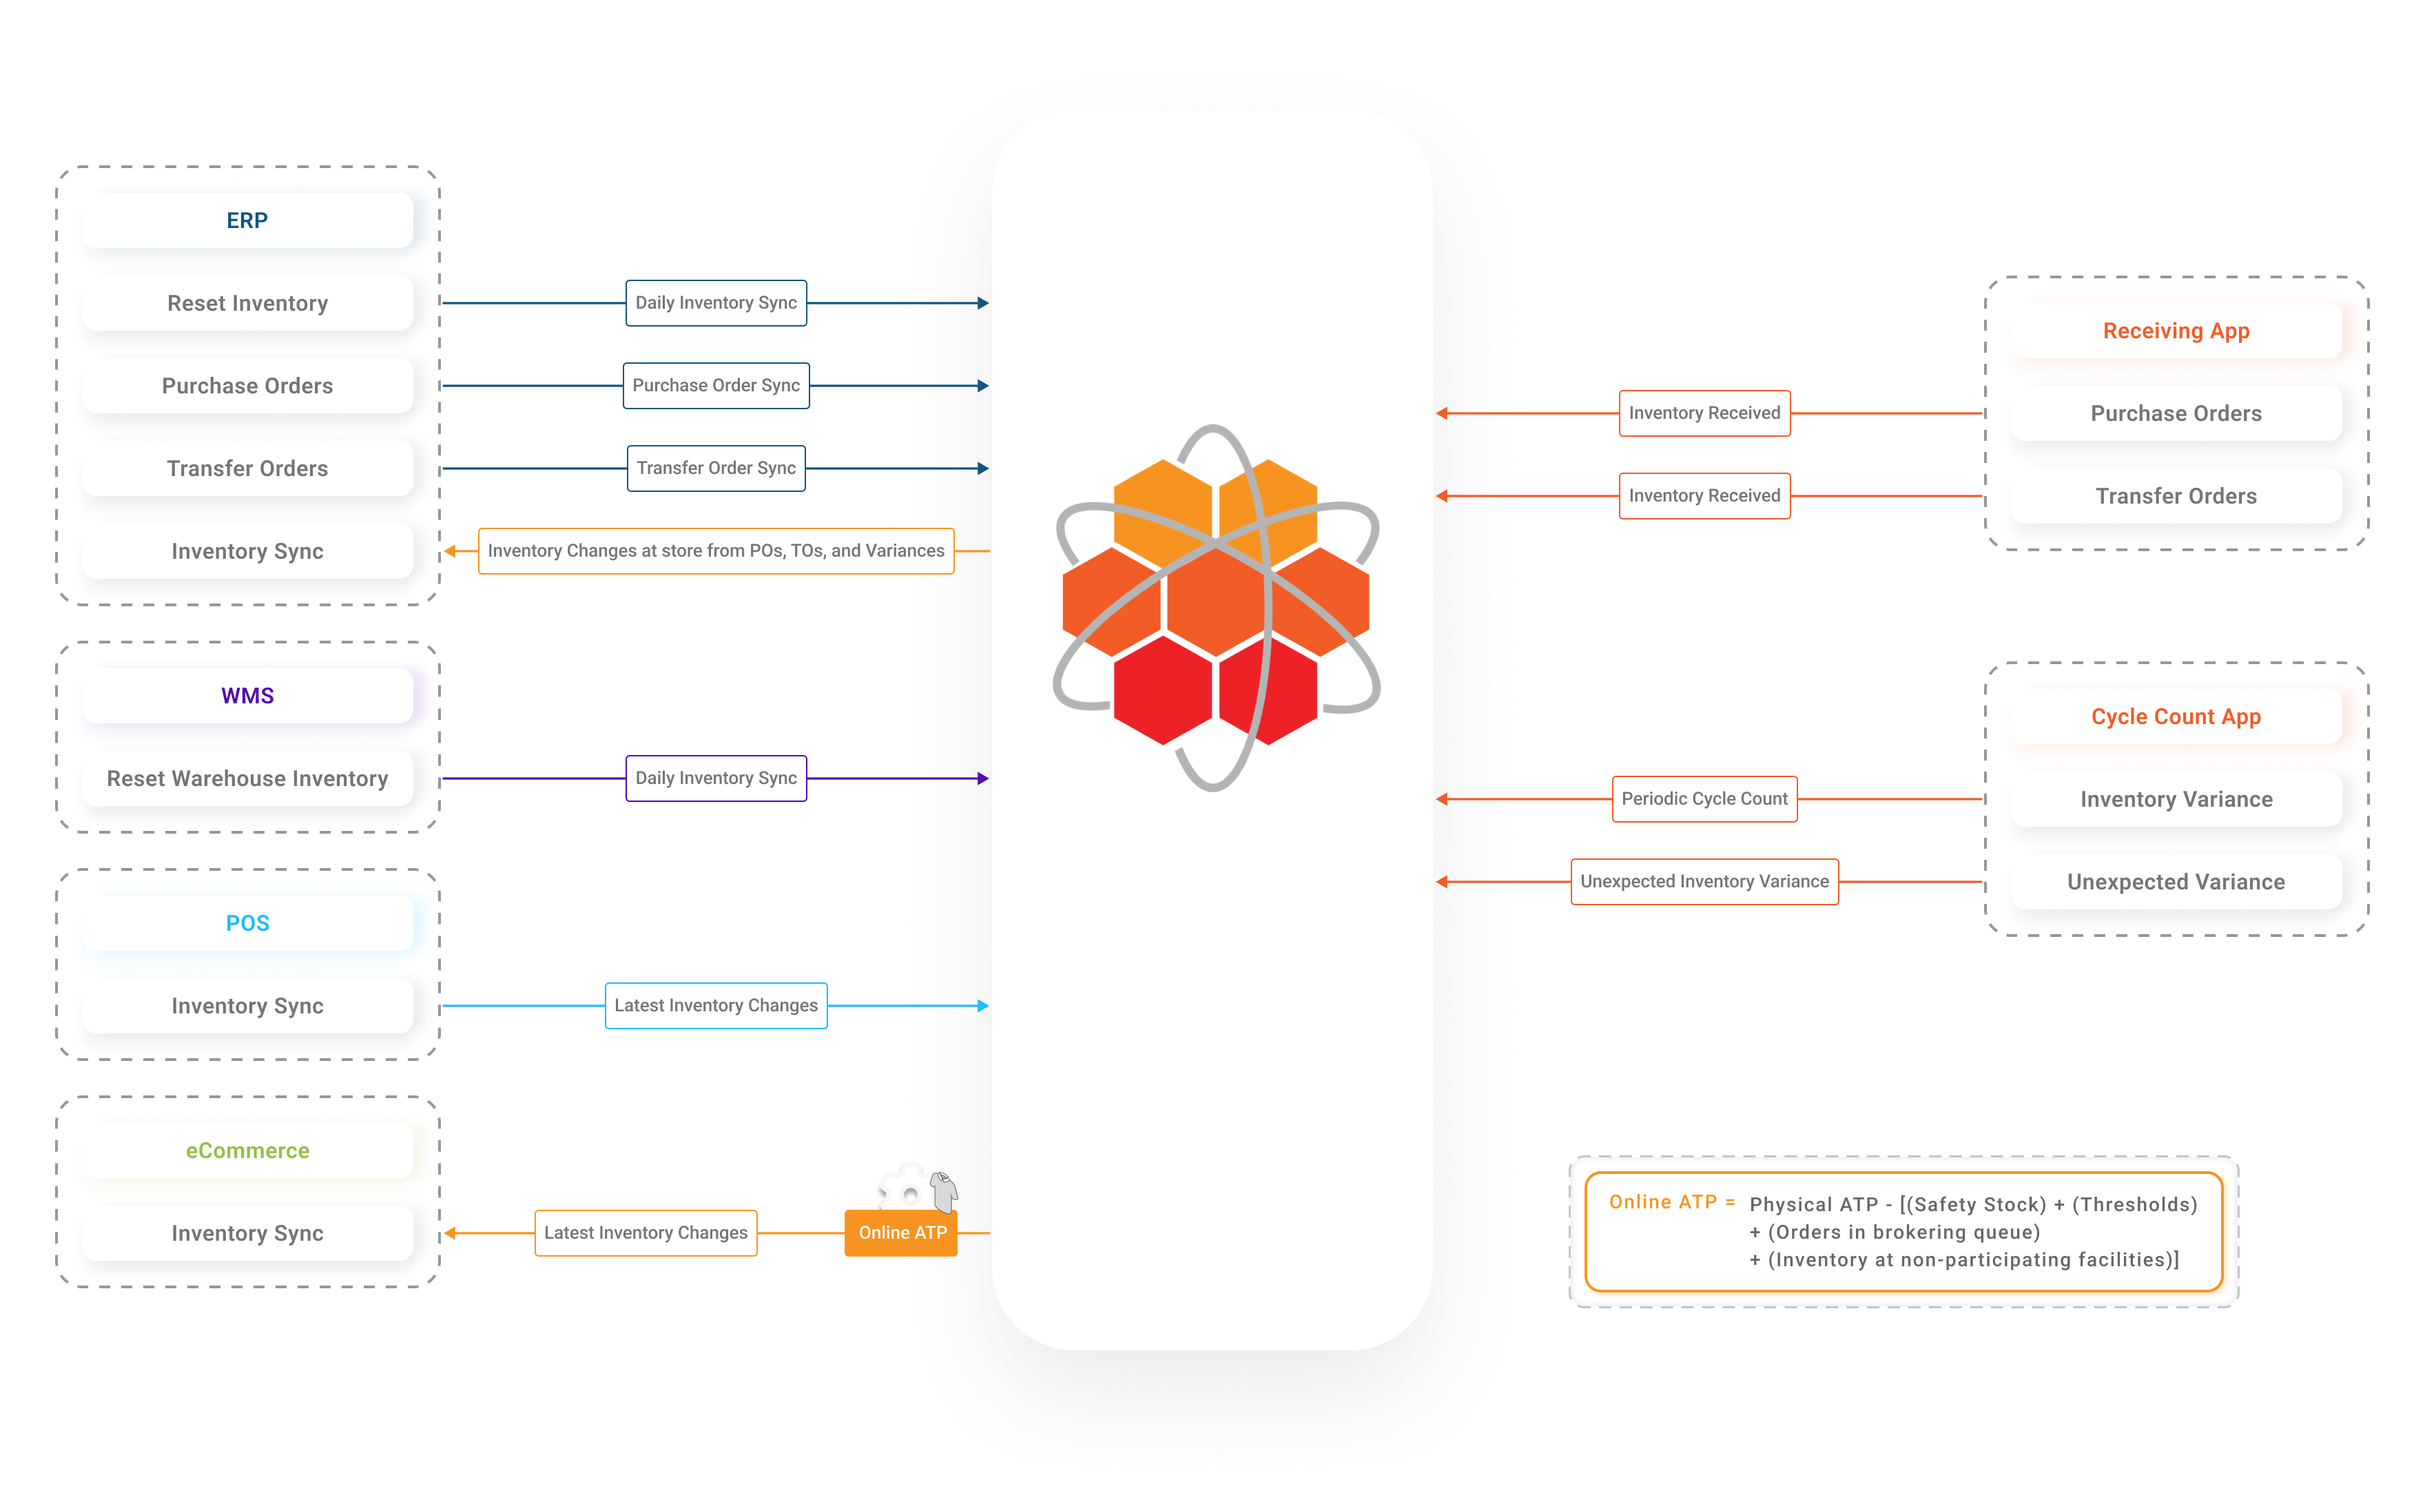
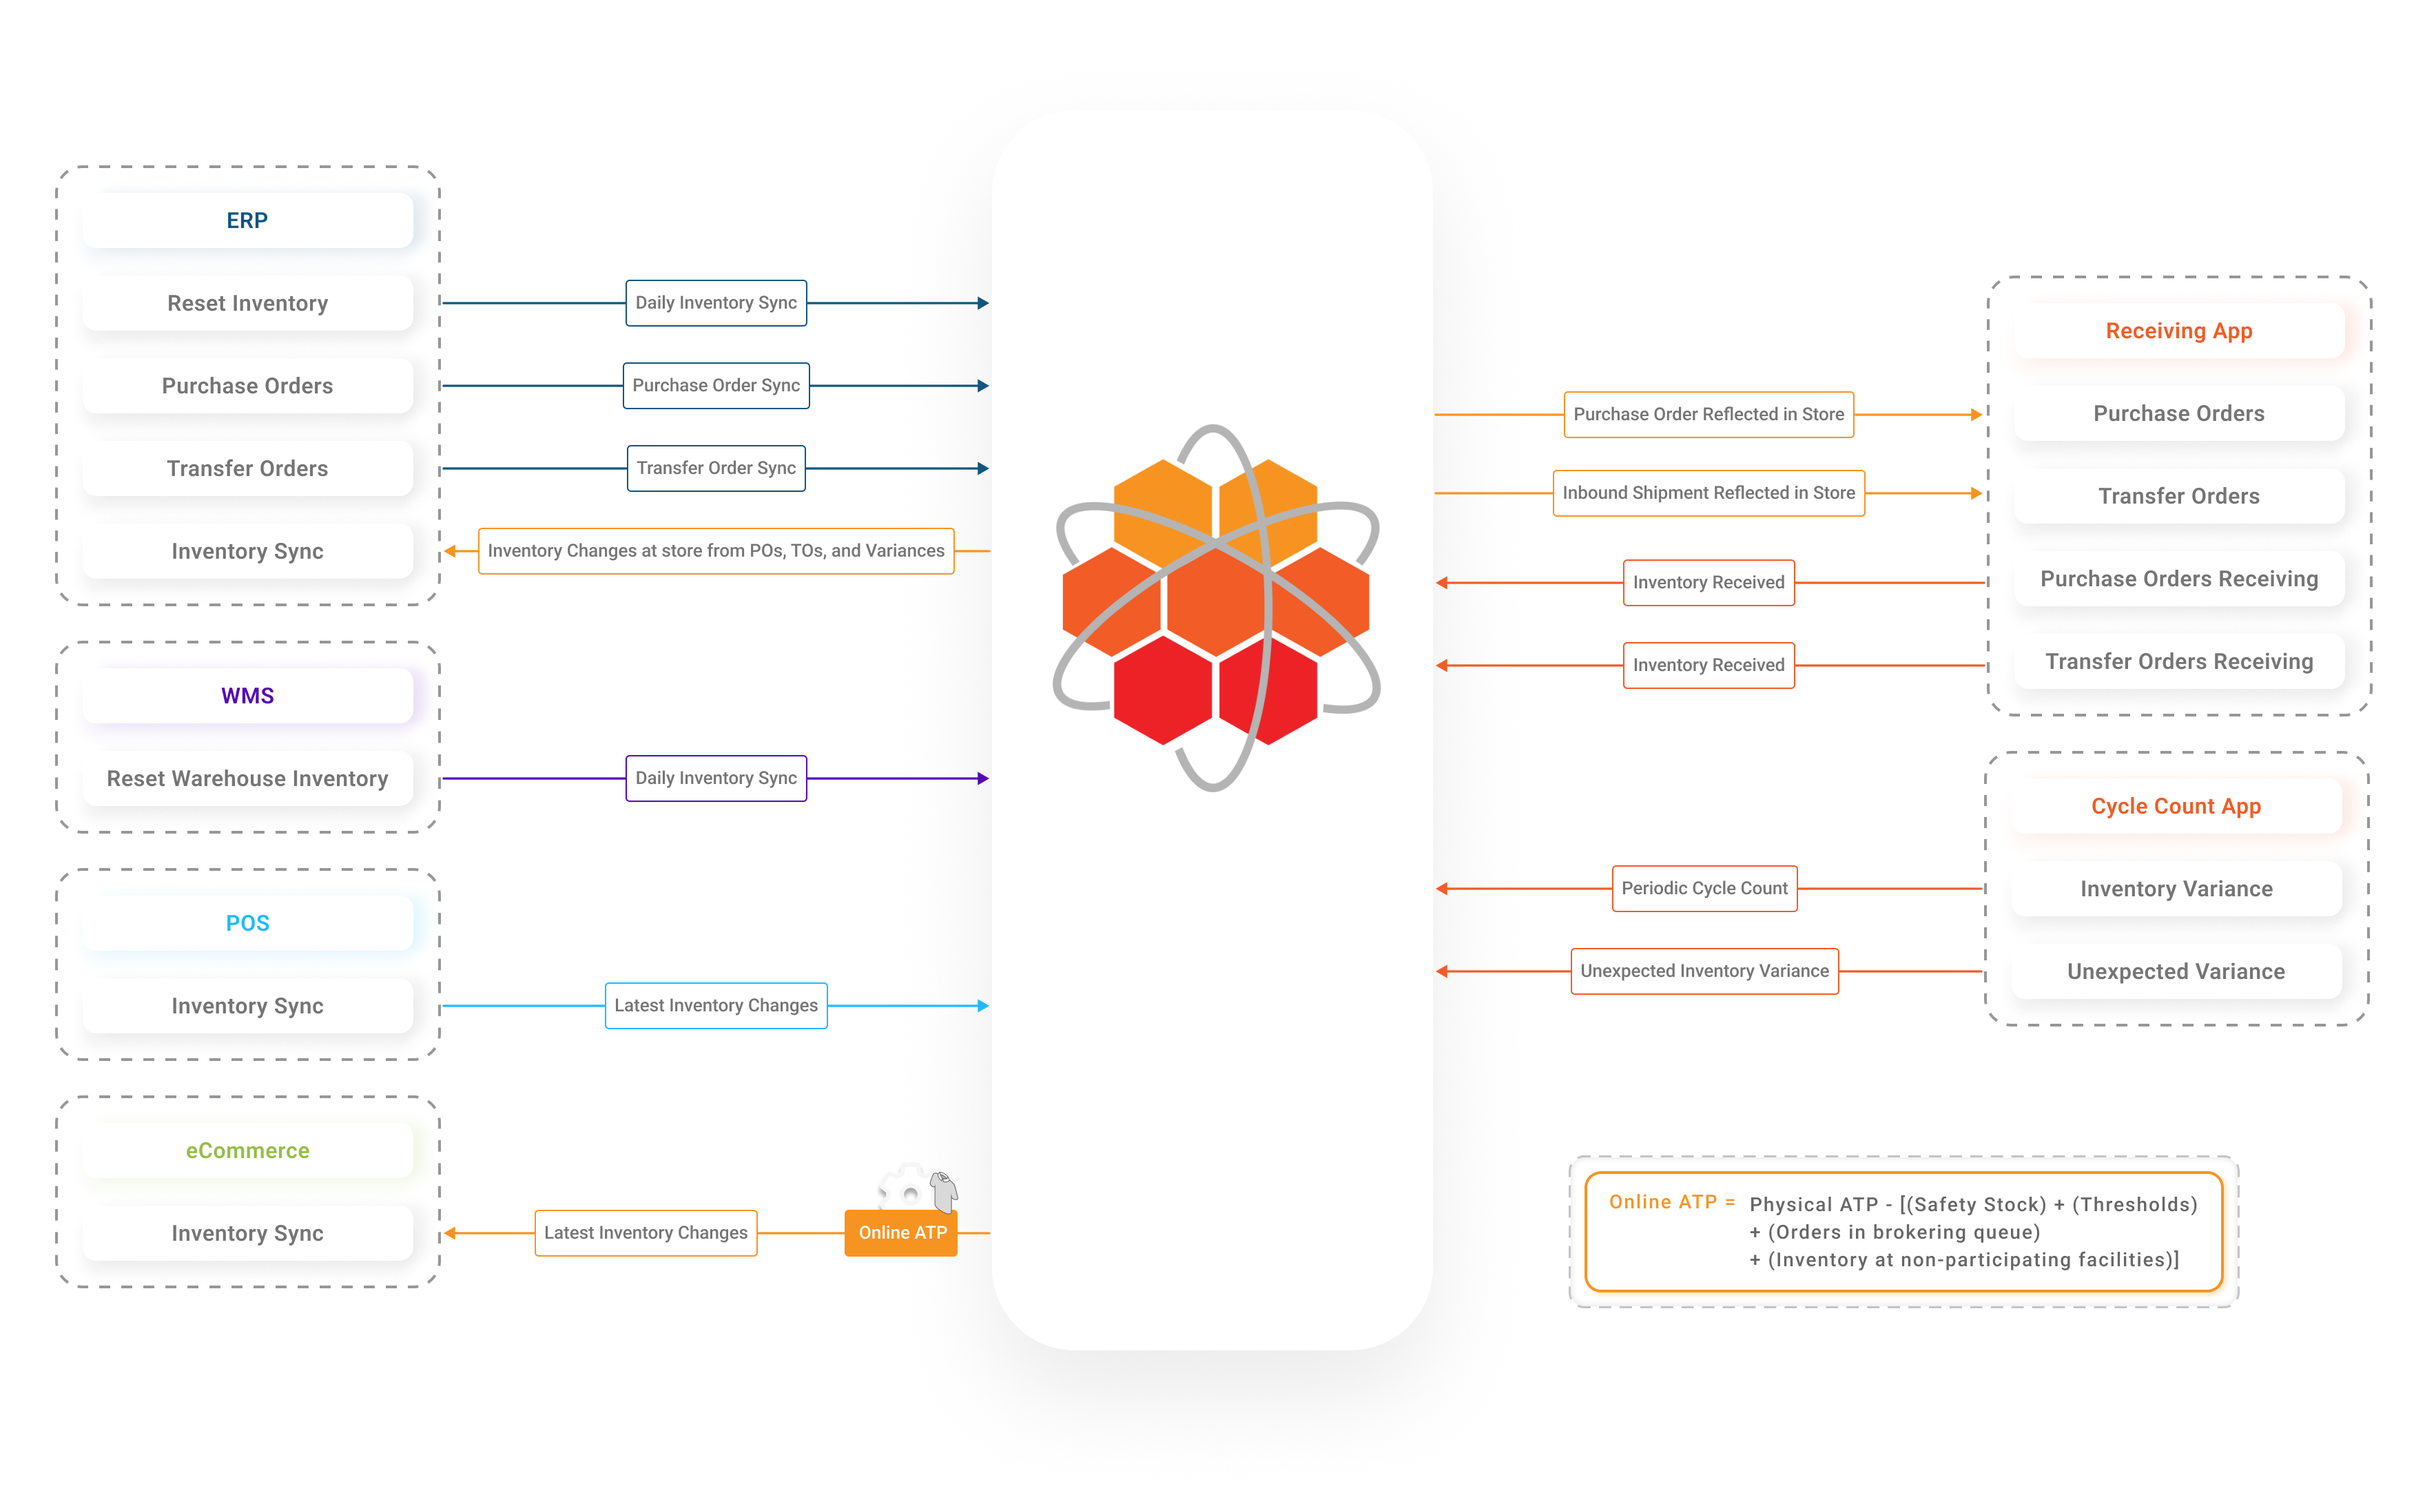
GITBOOK-45: added images

diff --git a/documents/learn-oms/gettingstarted.md b/documents/learn-oms/gettingstarted.md
@@ -2,7 +2,7 @@
 
 HotWax Commerce is a cloud-based Omnichannel Order Management System that provides retailers with the best return on their inventory by facilitating omnichannel solutions such as Same-Day Buy Online Pick-Up In Store (BOPIS), Buy Online Return In Store, Ship From Store, and Pre-Orders to increase conversion rates and profitability. Here’s how HotWax Commerce fits into your tech ecosystem:
 
-<figure><img src=".gitbook/assets/HotWax Commerce.png" alt=""><figcaption><p>System architecture </p></figcaption></figure>
+<figure><img src=".gitbook/assets/HotWax Commerce.png" alt=""><figcaption><p>HotWax Commerce in your tech stack </p></figcaption></figure>
 
 HotWax Commerce integrates with multiple systems present in your tech stack, like eCommerce, ERP, WMS, and POS, creates a single sellable inventory count, syncs inventory in real time across sales channels, and efficiently routes online orders to the best fulfillment locations.
 
